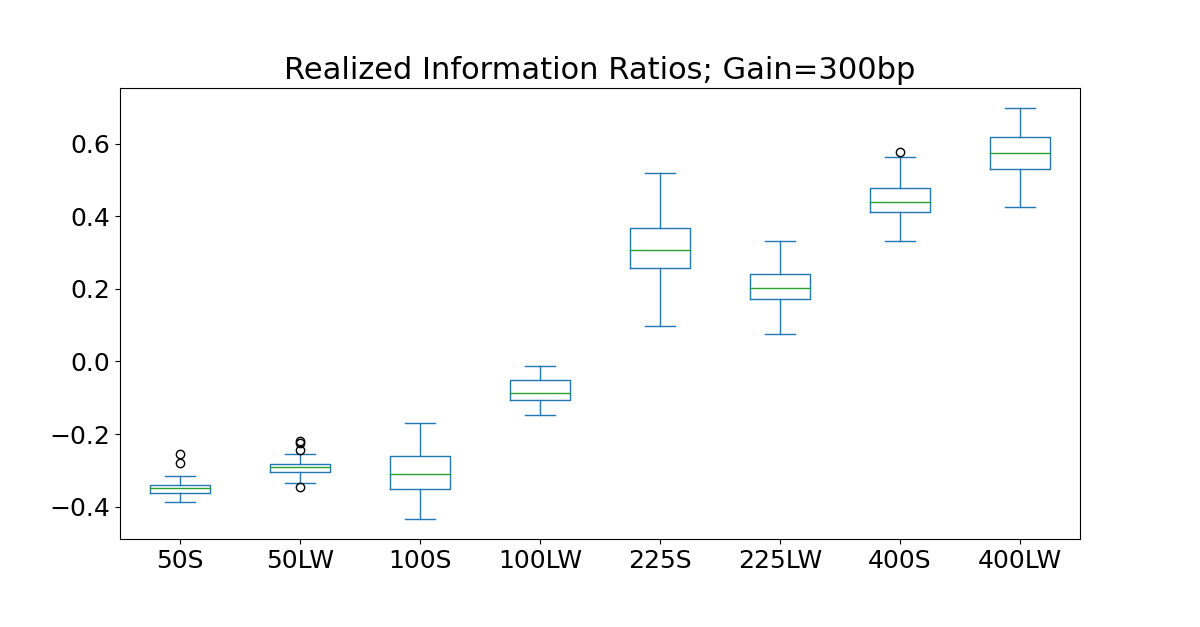
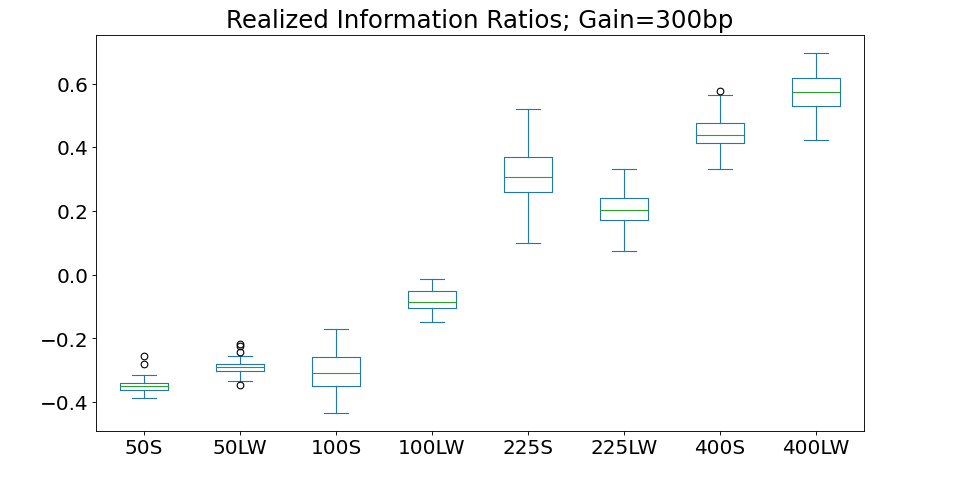
changes

diff --git a/_posts/2023-12-30-honey-covariance.md b/_posts/2023-12-30-honey-covariance.md
@@ -14,7 +14,7 @@ Here is the [<i class="fa fa-github" aria-hidden="true"></i> Github repo & code]
 
 _Ledoit, O., & Wolf, M. (2004). Honey, I shrunk the sample covariance matrix. The Journal of Portfolio Management, 30(4), 110–119. [https://doi.org/10.3905/jpm.2004.110](https://doi.org/10.3905/jpm.2004.110)_
 <center>
-<img src="{{ site.imageurl }}/LedoitWolf/linkedin2.png" style="width:90%;"/>
+<img src="{{ site.imageurl }}/LedoitWolf/linkedin2.png" style="width:100%;"/>
 </center>
 
 
